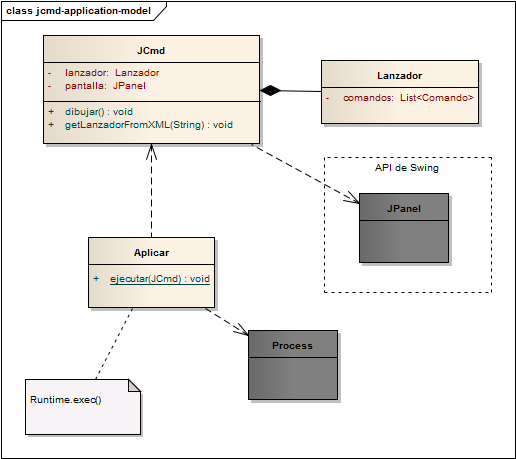
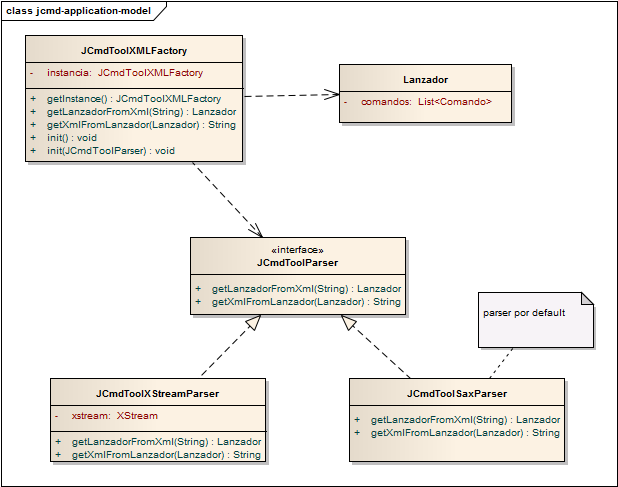
definición de xmlfactory para parser con xstream

diff --git a/pruebas/src/ar/com/algo2/jcmd/parsers/JCmdToolXStreamParser.java b/pruebas/src/ar/com/algo2/jcmd/parsers/JCmdToolXStreamParser.java
@@ -1,0 +1,68 @@
+package ar.com.algo2.jcmd.parsers;
+
+import java.io.File;
+
+import com.thoughtworks.xstream.XStream;
+
+import ar.com.algo2.jcmd.dominio.Accion;
+import ar.com.algo2.jcmd.dominio.Aplicacion;
+import ar.com.algo2.jcmd.dominio.Argumento;
+import ar.com.algo2.jcmd.dominio.Comando;
+import ar.com.algo2.jcmd.dominio.Constante;
+import ar.com.algo2.jcmd.dominio.Lanzador;
+import ar.com.algo2.jcmd.dominio.Parametro;
+import ar.com.algo2.jcmd.dominio.Regla;
+import ar.com.algo2.jcmd.dominio.Validacion;
+import ar.com.algo2.jcmd.dominio.converters.AccionConverter;
+import ar.com.algo2.jcmd.dominio.converters.AplicacionConverter;
+import ar.com.algo2.jcmd.dominio.converters.ArgumentoConverter;
+import ar.com.algo2.jcmd.dominio.converters.ComandoConverter;
+import ar.com.algo2.jcmd.dominio.converters.ConstanteConverter;
+import ar.com.algo2.jcmd.dominio.converters.LanzadorConverter;
+import ar.com.algo2.jcmd.dominio.converters.ParametroConverter;
+import ar.com.algo2.jcmd.dominio.converters.ReglaConverter;
+import ar.com.algo2.jcmd.dominio.converters.ValidacionConverter;
+
+public class JCmdToolXStreamParser implements JCmdToolParser {
+
+	private XStream xstream = null;
+
+	public JCmdToolXStreamParser() {
+
+		this.xstream = new XStream();
+
+		this.xstream.alias("argumento", Argumento.class);
+		this.xstream.alias("etiqueta", String.class);
+		this.xstream.alias("aplicacion", Aplicacion.class);
+		this.xstream.alias("comando", Comando.class);				
+		this.xstream.alias("lanzador", Lanzador.class);
+		this.xstream.alias("valor", String.class);
+		this.xstream.alias("regla", Regla.class);
+		this.xstream.alias("parametro", Parametro.class);
+		this.xstream.alias("constante", Constante.class);
+		this.xstream.alias("validacion", Validacion.class);
+		this.xstream.alias("accion", Accion.class);
+
+		this.xstream.registerConverter(new ArgumentoConverter());
+		this.xstream.registerConverter(new AplicacionConverter());
+		this.xstream.registerConverter(new ComandoConverter());
+		this.xstream.registerConverter(new LanzadorConverter());
+		this.xstream.registerConverter(new ReglaConverter());
+		this.xstream.registerConverter(new ParametroConverter());
+		this.xstream.registerConverter(new ConstanteConverter());
+		this.xstream.registerConverter(new AccionConverter());
+		this.xstream.registerConverter(new ValidacionConverter());
+
+	}
+
+	@Override
+	public Lanzador getLanzadorFromXml(String path) {
+		return (Lanzador) this.xstream.fromXML(new File(path));
+	}
+
+	@Override
+	public String getXmlFromLanzador(Lanzador lanzador) {
+		return this.xstream.toXML(lanzador);
+	}
+
+}

diff --git a/pruebas/src/ar/com/algo2/jcmd/appmodel/JCmdToolXMLFactory.java b/pruebas/src/ar/com/algo2/jcmd/appmodel/JCmdToolXMLFactory.java
@@ -1,0 +1,38 @@
+package ar.com.algo2.jcmd.appmodel;
+
+import ar.com.algo2.jcmd.dominio.Lanzador;
+import ar.com.algo2.jcmd.parsers.JCmdToolParser;
+import ar.com.algo2.jcmd.parsers.JCmdToolSAXParser;
+
+public class JCmdToolXMLFactory {
+
+	private static JCmdToolXMLFactory instancia = null;
+	private JCmdToolParser parser;
+
+	private JCmdToolXMLFactory() {}
+	
+	public static JCmdToolXMLFactory getInstance()
+	{
+		if(instancia == null)			
+			instancia = new JCmdToolXMLFactory();
+		
+		return instancia;
+	}
+	
+	public void init() {
+		this.parser = new JCmdToolSAXParser(); //default
+	}
+	
+	public void init(JCmdToolParser parser) {
+		this.parser = parser;
+	}
+	
+	public Lanzador getLanzadorFromXml(String path) {				
+		return this.parser.getLanzadorFromXml(path);
+	}
+	
+	public String getXmlFromLanzador(Lanzador lanzador) {
+		return this.parser.getXmlFromLanzador(lanzador);
+	}
+
+}

diff --git a/pruebas/src/ar/com/algo2/jcmd/parsers/JCmdToolParser.java b/pruebas/src/ar/com/algo2/jcmd/parsers/JCmdToolParser.java
@@ -1,0 +1,10 @@
+package ar.com.algo2.jcmd.parsers;
+
+import ar.com.algo2.jcmd.dominio.Lanzador;
+
+public interface JCmdToolParser {
+
+	public Lanzador getLanzadorFromXml(String path);
+	public String getXmlFromLanzador(Lanzador lanzador); //TODO: no solicitado en enunciado, para testing
+
+}
